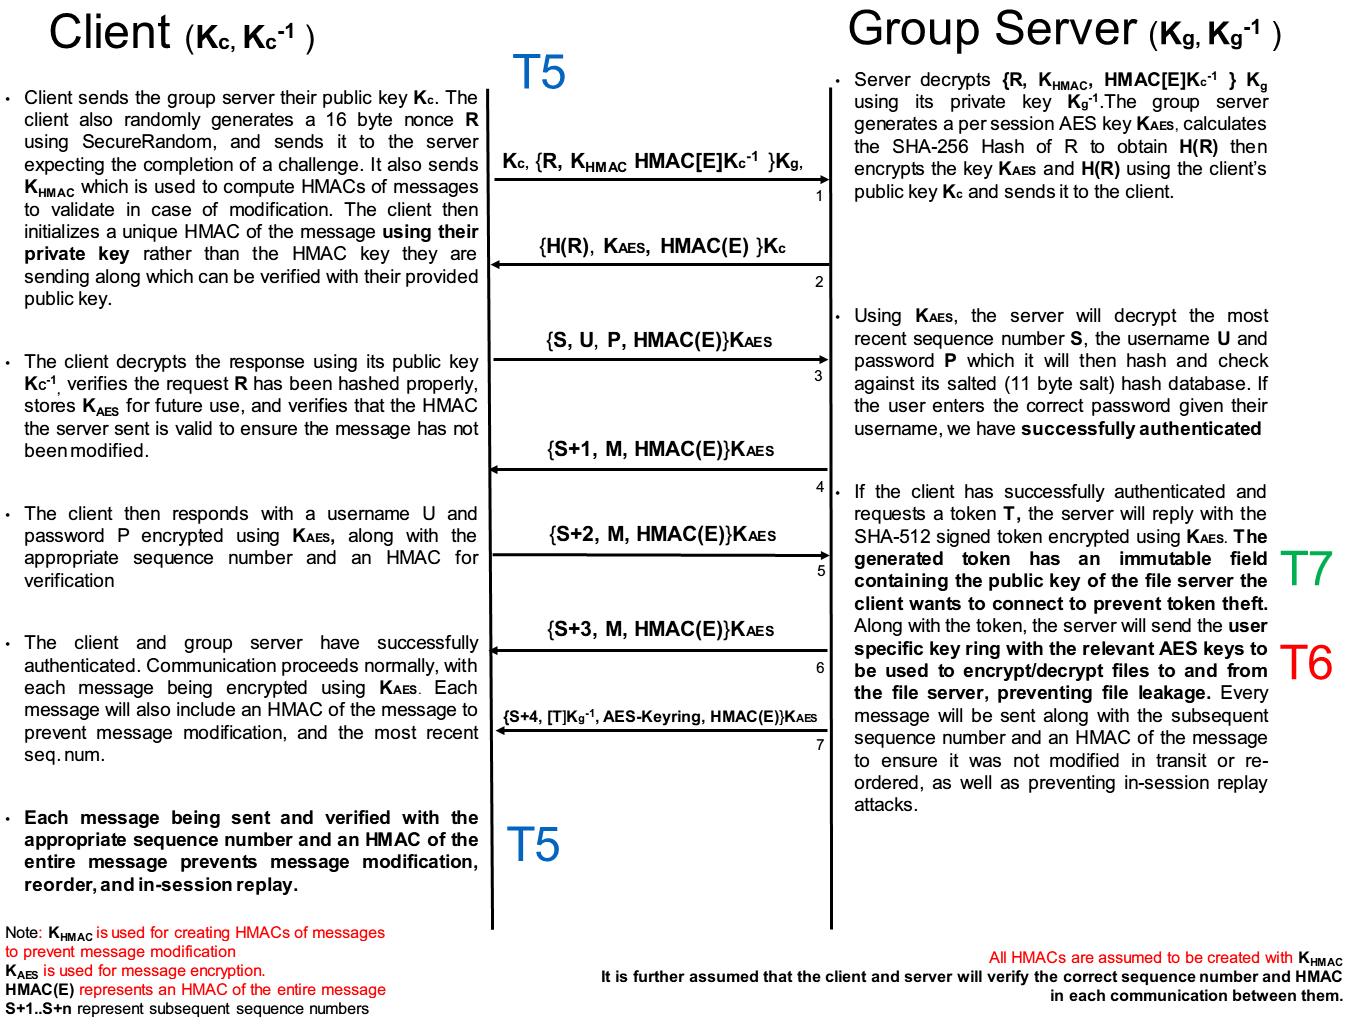
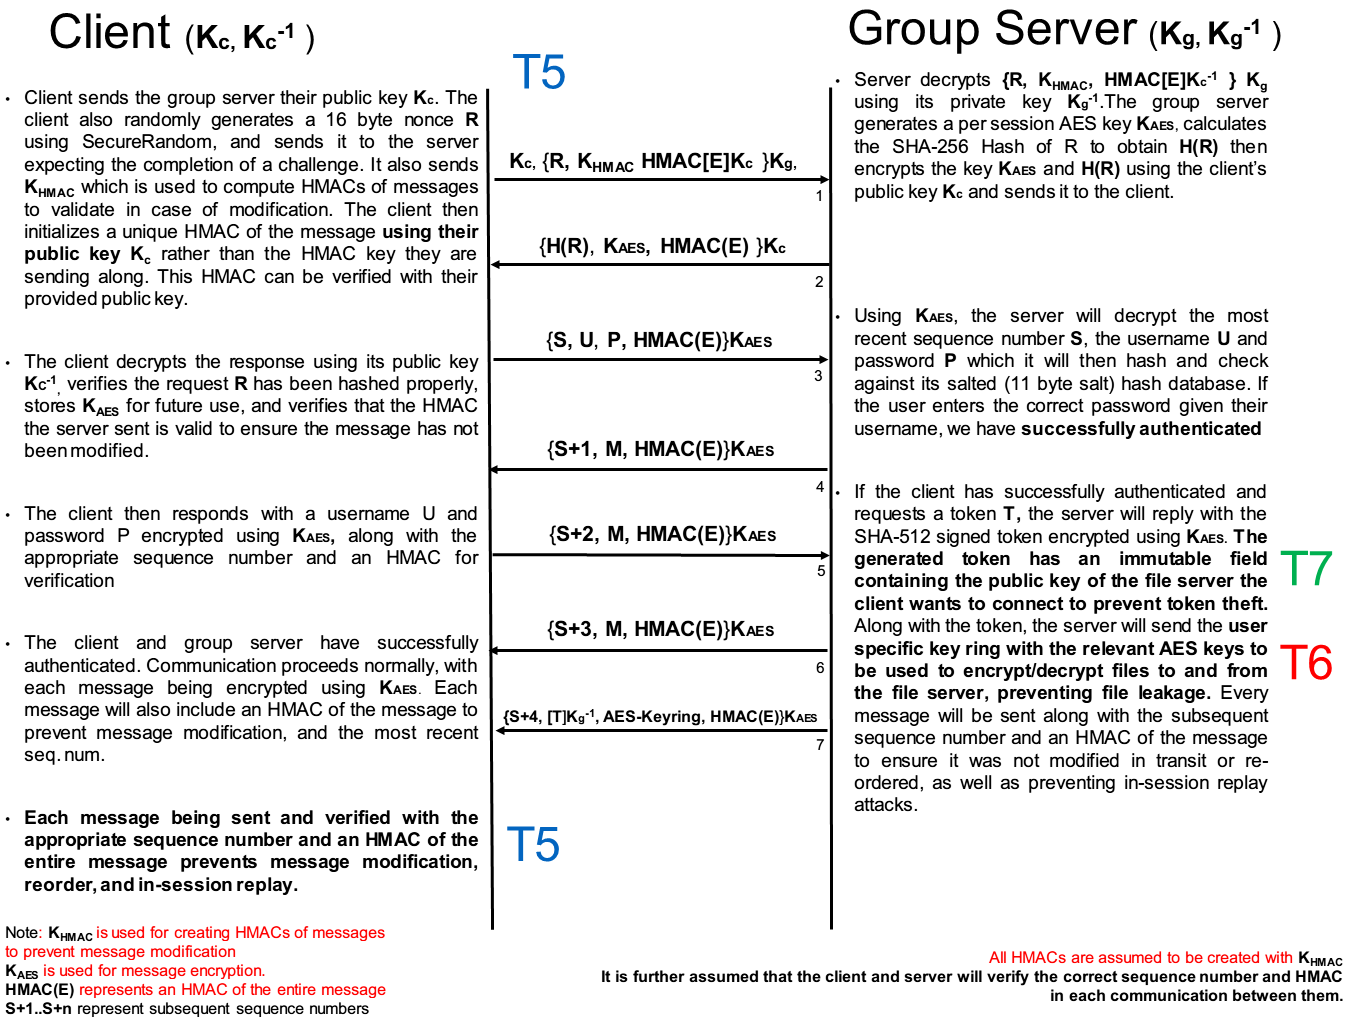
fix typo in writeup and diagrams

Changed region(s): [[0.0308, 0.2188, 0.3692, 0.3125], [0.3692, 0.125, 0.5846, 0.1875]]

diff --git a/doc/phase4-writeup.htm b/doc/phase4-writeup.htm
@@ -139,7 +139,7 @@ This threat can be broken down into multiple categories:
         </p>
         <b>A special case:</b>
         <p>
-            The lone exception to our providing HMACs generated with the HMAC key is the <i>first</i> message which is sent by the client. In the first message sent by the client (see diagram) they send their public key along with a nonce challenge, the HMAC key for future HMACs, and an HMAC of the entire message. This HMAC, however, is generated using the client's <b>private key</b>. We do this to ensure that an active man-in-the-middle can't <i>modify</i> this initial message and replace it with their own public key. If an adversary replaced the client's public key with their own, the server would attempt to verify the HMAC with this public key, and the verification would fail. The verification of this initial HMAC can ONLY succeed if it's verified with the authentic client's public key. Thus we have prevented a man in the middle from being a malicious router.
+            The lone exception to our providing HMACs generated with the HMAC key is the <i>first</i> message which is sent by the client. In the first message sent by the client (see diagram) they send their public key along with a nonce challenge, the HMAC key for future HMACs, and an HMAC of the entire message. This HMAC, however, is generated using the client's <b>public key K_c</b>. We do this to ensure that an active man-in-the-middle can't <i>modify</i> this initial message and replace it with their own public key. If an adversary replaced the client's public key with their own, the server would attempt to verify the HMAC with this public key, and the verification would fail. The verification of this initial HMAC can ONLY succeed if it's verified with the authentic client's public key. Thus we have prevented a man in the middle from being a malicious router.
         </p>
     </li>
 </ul>
@@ -269,7 +269,7 @@ This threat can be broken down into multiple categories:
 </p>
 <p>
     <b>Note on the special case HMAC during the handshake:</b>
-	The first message to the server is verified by a different type of HMAC than we use for our typical AES encrypted communication because that is the message in which the client actually SENDS the fresh HMAC key to the server. If we use the HMAC key we send to the server to HMAC the first message, an adversary could potentially forge a message with a different HMAC key and public key other than the authentic client's. Instead, to prevent this, we initialize the first HMAC with the client's private key which cannot be forged. The server then verifies this HMAC with the attached public key. If the adversary modifies this public key, the HMAC verification will fail. Thus we prevent an active man in the middle attacker from sitting in the middle of a session authentication handshake.
+	The first message to the server is verified by a different type of HMAC than we use for our typical AES encrypted communication because that is the message in which the client actually SENDS the fresh HMAC key to the server. If we use the HMAC key we send to the server to HMAC the first message, an adversary could potentially forge a message with a different HMAC key and public key other than the authentic client's. Instead, to prevent this, we initialize the first HMAC with the client's public key which cannot be forged. The server then verifies this HMAC with the attached public key. If the adversary modifies this public key, the HMAC verification will fail. Thus we prevent an active man in the middle attacker from sitting in the middle of a session authentication handshake and potentially learning sensitive information or stealing keys, etc.
 </p>
 <p>
     We refactored a large portion of our code to handle sessions more elegantly with a so-called "Session" object which stores the HMAC key, the current sequence number, the session AES key used to encrypt and decrypt messages back and forth, as well as some functions for verification. Every time a session is initiated a session object is initialized for it and destroyed when the session disconnected.
